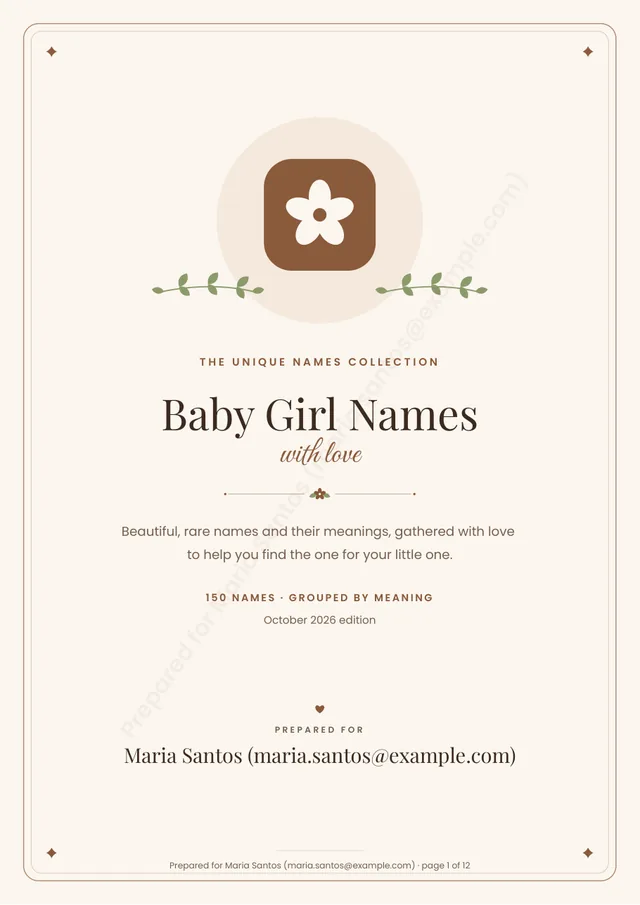
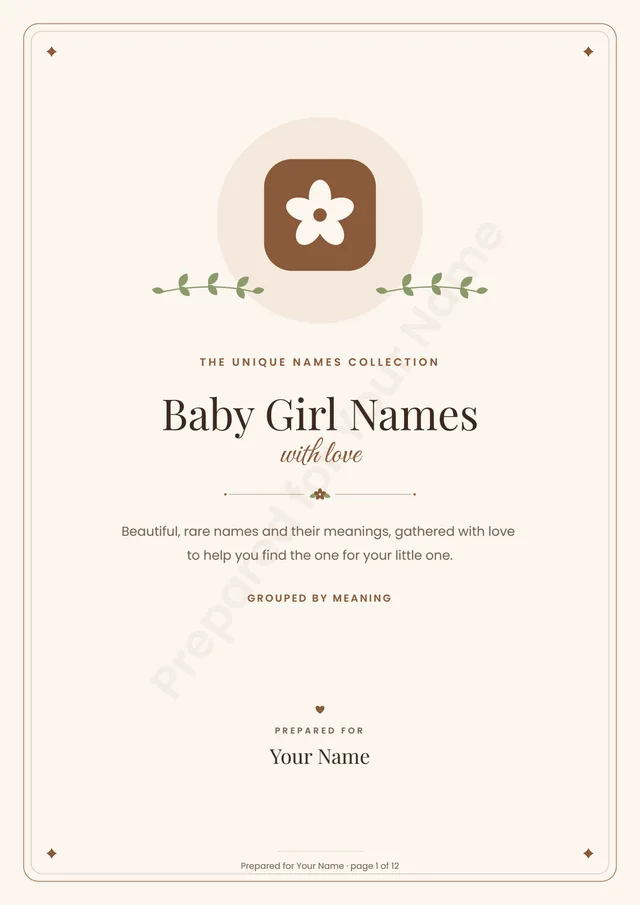
fix(shop): previews show "Your Name" and no name count that goes stale
renderNamesPdf({ sample: true }) leaves the name count and the month off the
cover. The shop's cover and names-page previews are re-rendered with the real
builder, buyer stamp "Your Name" (cover, footer, watermark), from the earlier
real Girl sample's names (read from that local PDF; no database).

diff --git a/lib/pdf/render.ts b/lib/pdf/render.ts
@@ -46,6 +46,8 @@ export interface RenderInput {
   edition: Date;
   pack: { pdf: PackPdf; name: string; handle: string };
   passwords: PdfPasswords;
+  /** A sample for the shop's preview pictures: no name count and no month on the cover (they would go stale). */
+  sample?: boolean;
 }
 export interface RenderResult { pdf: Buffer; pages: number; trace: TraceItem[]; contents: ContentsRow[] }
 
@@ -240,9 +242,9 @@ function cover(b: Book, total: number) {
   divider(doc, p.ornament, W / 2, y, 170, c, 15);
   y += 26;
   y += b.text("cover", p.subtitle, 110, y, { f: "body", size: 12, color: c.muted, width: W - 220, align: "center", lineGap: 4 }) + 20;
-  const stats = `${total.toLocaleString("en-US")} names · grouped by meaning`;
+  const stats = b.i.sample ? "grouped by meaning" : `${total.toLocaleString("en-US")} names · grouped by meaning`;
   y += b.text("cover", stats.toUpperCase(), 60, y, { f: "bold", size: 9.5, color: c.accent, width: W - 120, align: "center", spacing: 1.6 }) + 6;
-  b.text("cover", editionText(b.i.edition), 60, y, { f: "body", size: 10, color: c.muted, width: W - 120, align: "center" });
+  if (!b.i.sample) b.text("cover", editionText(b.i.edition), 60, y, { f: "body", size: 10, color: c.muted, width: W - 120, align: "center" });
   const by = H - 168;
   heart(doc, W / 2, by - 14, 9, c.accent);
   b.text("cover", "PREPARED FOR", 60, by, { f: "bold", size: 8, color: c.muted, width: W - 120, align: "center", spacing: 2.2 });

diff --git a/tests/names-pdf.test.ts b/tests/names-pdf.test.ts
@@ -287,3 +287,20 @@ describe("renderNamesPdf (Unique Names, Girl)", async () => {
     expect(onPage(r, r.pages, "thanks")).toContain("Follow @unique_names on Facebook for new names every day.");
   });
 });
+
+describe("sample render (the shop's preview pictures)", () => {
+  it("sample: true leaves the name count and the month off the cover (they would go stale); the buyer stamp stays", async () => {
+    const sections = planSections(FIX, "girl", UN.pdf, UN.nameCategories);
+    const base = { sections, gender: "girl" as const, buyer: "Your Name", edition: new Date("2026-10-11T00:00:00Z"),
+      pack: { pdf: UN.pdf, name: UN.brand.name, handle: UN.brand.handle }, passwords: { user: "Kp7m-Xr4d-Tq9w", owner: "owner-pw-different-1234" } };
+    const normal = await renderNamesPdf(base);
+    const sample = await renderNamesPdf({ ...base, sample: true });
+    expect(onPage(normal, 1, "cover")).toEqual(expect.arrayContaining(["130 NAMES · GROUPED BY MEANING", "October 2026 edition"]));
+    const cover = onPage(sample, 1, "cover");
+    expect(cover).toContain("GROUPED BY MEANING");
+    expect(cover.join(" ")).not.toMatch(/\d+ NAMES|edition/i);
+    expect(cover).toEqual(expect.arrayContaining(["PREPARED FOR", "Your Name"]));
+    expect(onPage(sample, 1, "footer")).toEqual(["Prepared for Your Name · page 1 of " + sample.pages]);
+    expect(onPage(sample, 1, "watermark")).toEqual(["Prepared for Your Name"]);
+  }, 60_000);
+});
